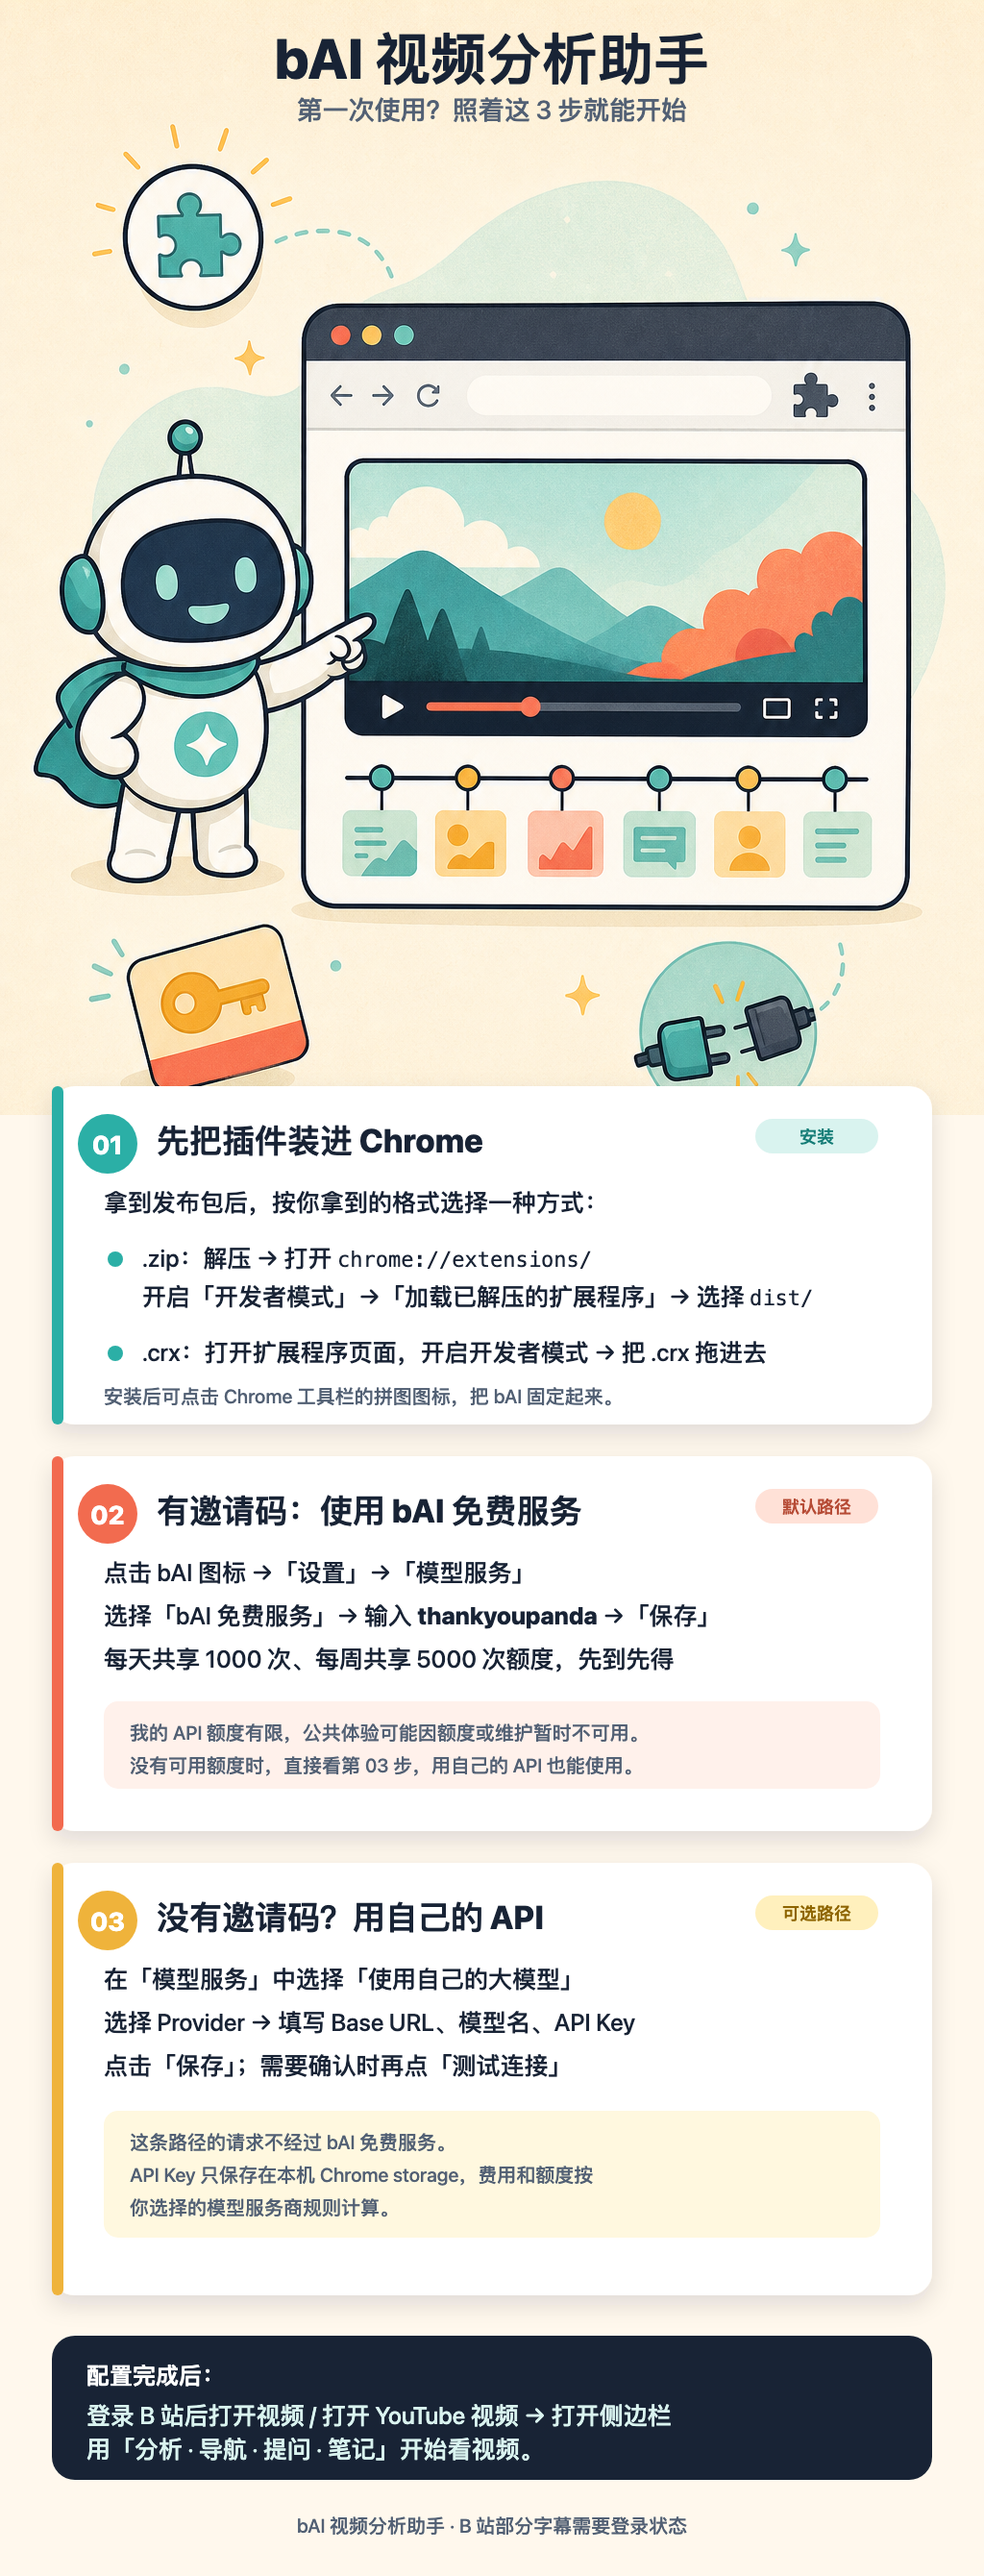
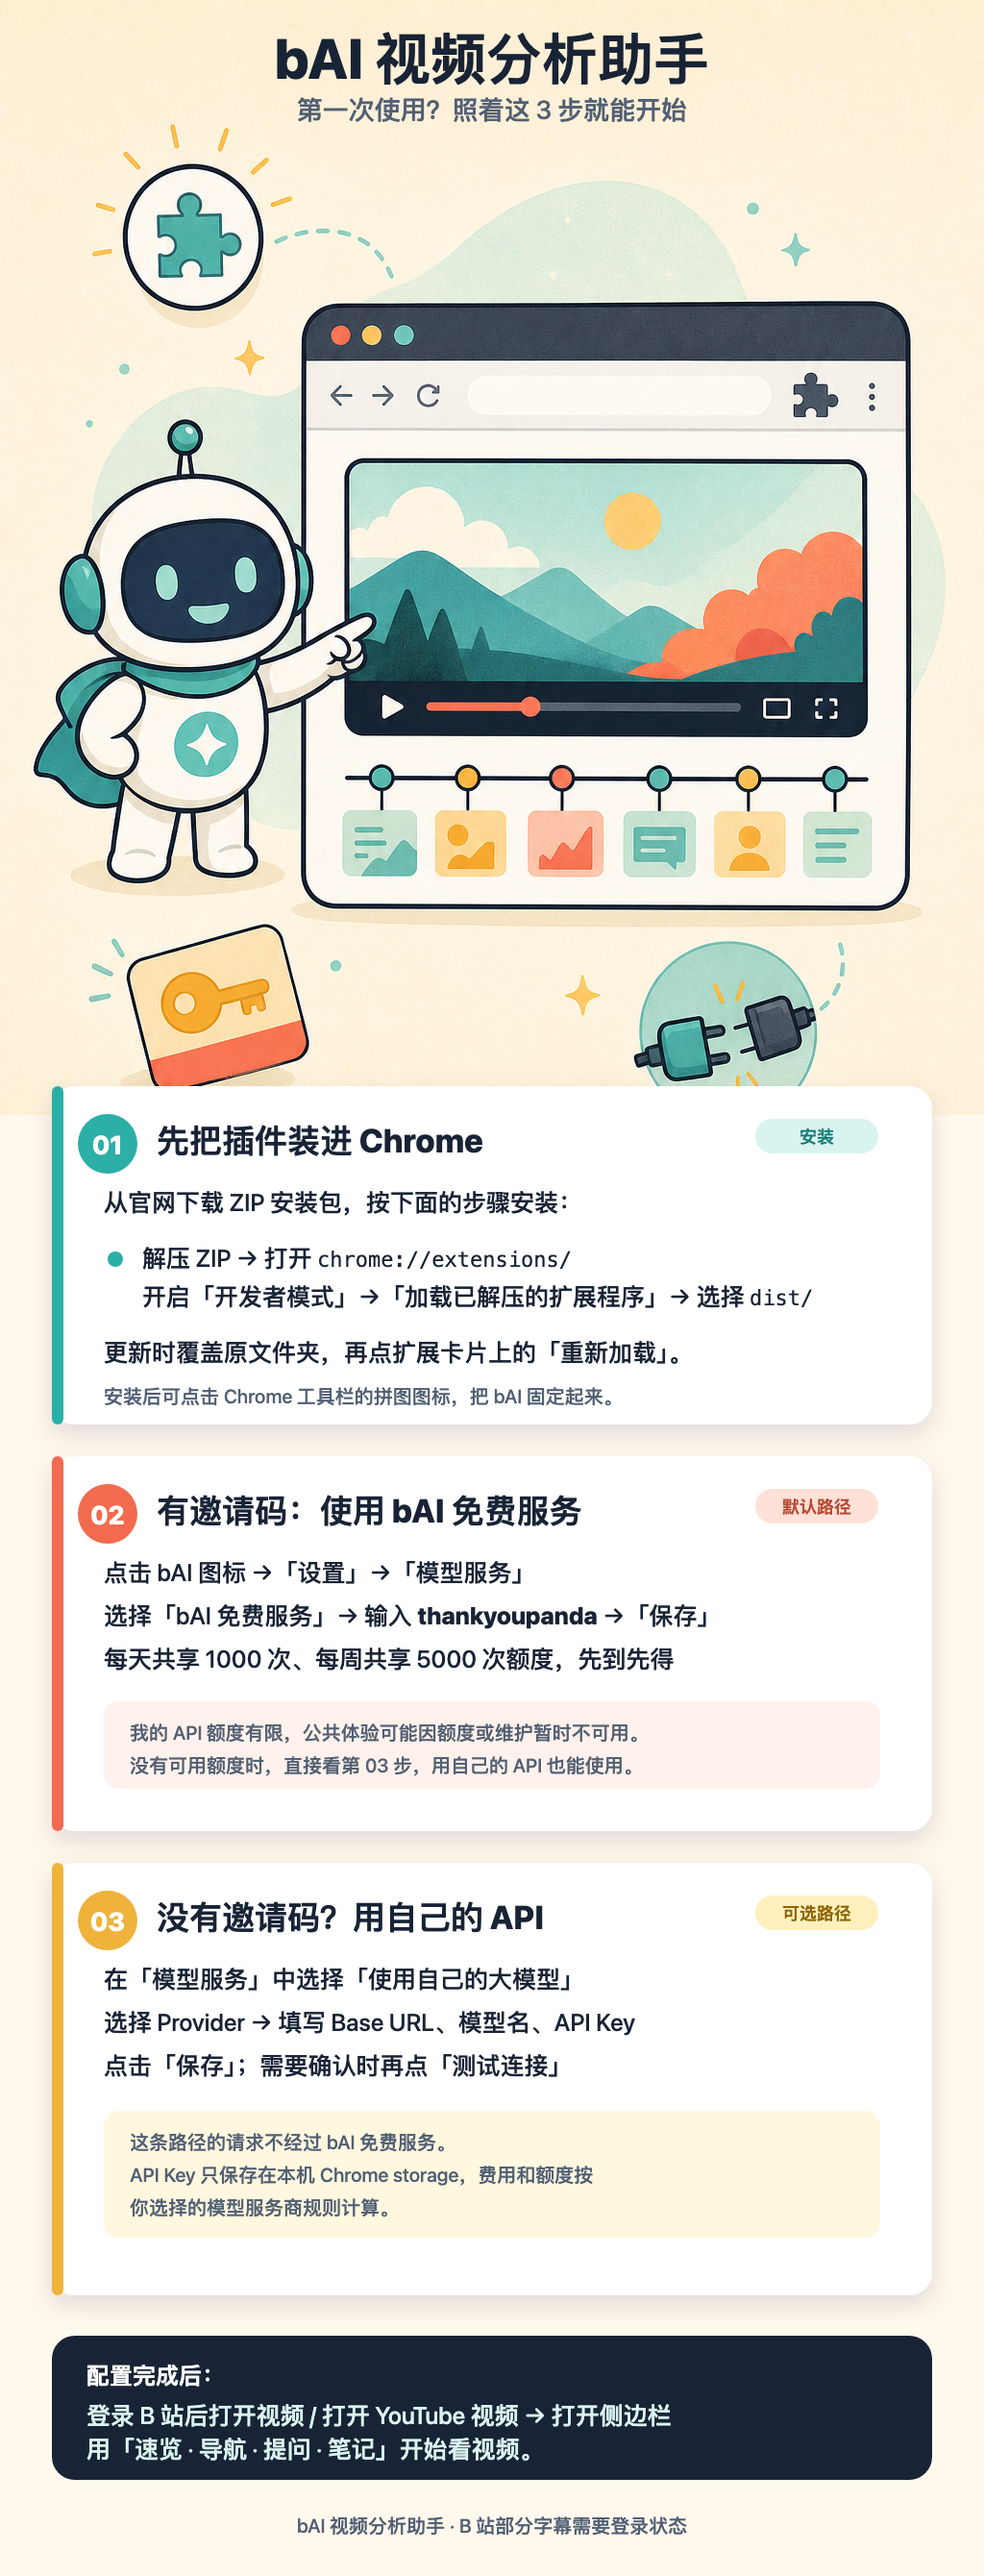
docs: publish reviewed repository updates

Changed region(s): [[0.125, 0.4646, 0.6562, 0.5265], [0.125, 0.9291, 0.1875, 0.9601], [0.7188, 0.4955, 0.75, 0.5265]]

diff --git a/README.md b/README.md
@@ -30,13 +30,14 @@
 
 ## 一条视频，怎么用它
 
-下面三张插件界面图来自同一条哔哩哔哩视频《【罗翔】我们为什么要读书？》，不是设计稿，也不是为演示单独制作的结果。
+下面三张插件截图来自同一条哔哩哔哩视频《【罗翔】我们为什么要读书？》，不是设计稿，也不是为演示单独制作的结果。
 
 这个例子更接近 bAI 想做的事：**它不急着评价视频好不好，而是先帮你理解内容，再决定怎样投入时间。**
 
 ### 01 打开想看的视频
 
-像平常一样打开 B 站视频，不需要下载或重新上传视频文件。插件会识别当前页面，并准备视频信息与可用字幕；内容准备完成后，即可在侧边栏生成分析或导航。
+像平常一样打开 B 站视频，不需要下载或重新上传视频文件。插件会识别当前页面，并准备视频信息与可用字幕。
+
 
 ### 02 先看一份内容速览
 
@@ -68,8 +69,8 @@
       </a>
     </td>
     <td>
-      <a href="docs/images/bai-question-example.png">
-        <img src="docs/images/bai-question-example.png" alt="bAI 围绕当前视频片段提问的实际样例" />
+      <a href="site/video-analysis/assets/question.png">
+        <img src="site/video-analysis/assets/question.png" alt="bAI 围绕当前视频片段提问的实际样例" />
       </a>
     </td>
   </tr>
@@ -79,7 +80,7 @@
 
 ## 它能做什么
 
-### 快速分析
+### 内容速览
 
 不用先看完整条视频，就能了解：
 
@@ -134,7 +135,7 @@
 3. 开启“开发者模式”，选择“加载已解压的扩展程序”。
 4. 选择解压后的 `dist` 文件夹，然后把 bAI 固定到工具栏。
 
-已有旧版的用户，请把新版 ZIP 解压到原安装目录并在 `chrome://extensions/` 点击该扩展的重新加载按钮。当前开发者模式安装需要手动完成此步骤，访问官网不会让浏览器自动升级。Release 同时提供 CRX，适合小范围测试；部分 Chrome 版本会限制直接安装未上架商店的 CRX，此时请改用 ZIP 方式。
+已有旧版的用户，请把新版 ZIP 解压到原安装目录，并在 `chrome://extensions/` 点击该扩展的重新加载按钮。当前开发者模式安装需要手动完成此步骤，访问官网不会让浏览器自动升级。当前 v0.1.2 Release 只提供 ZIP，按上述步骤安装或覆盖更新。
 
 ### 2. 使用公共体验服务
 

diff --git a/SECURITY.md b/SECURITY.md
@@ -14,9 +14,4 @@
 - 视频字幕、AI 生成结果、学习会话和 Markdown 笔记默认保存在本地。
 - 使用 AI 功能时，必要的字幕和问题会发送到用户选择的 bAI 服务或模型服务商；请自行确认对应服务的隐私和计费规则。
 
-## 公共体验服务
-
 公共体验服务通过 `https://video-analysis.pandabai.com` 提供 HTTPS 连接。
-
-- 公共服务会把调用所需的字幕和问题转发给模型服务商；请自行判断内容是否适合提交。
-- 敏感内容可使用你自己控制的 HTTPS Provider，并确认服务商的数据处理规则。
